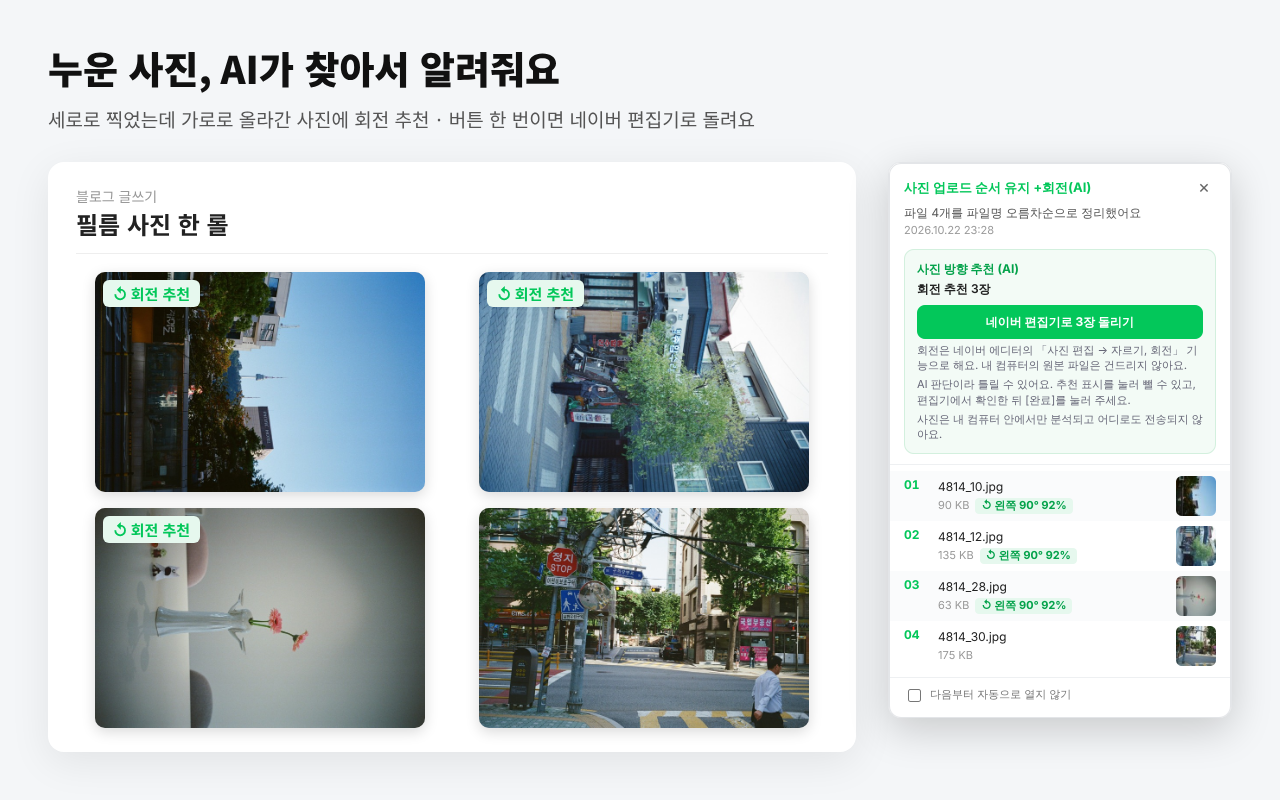
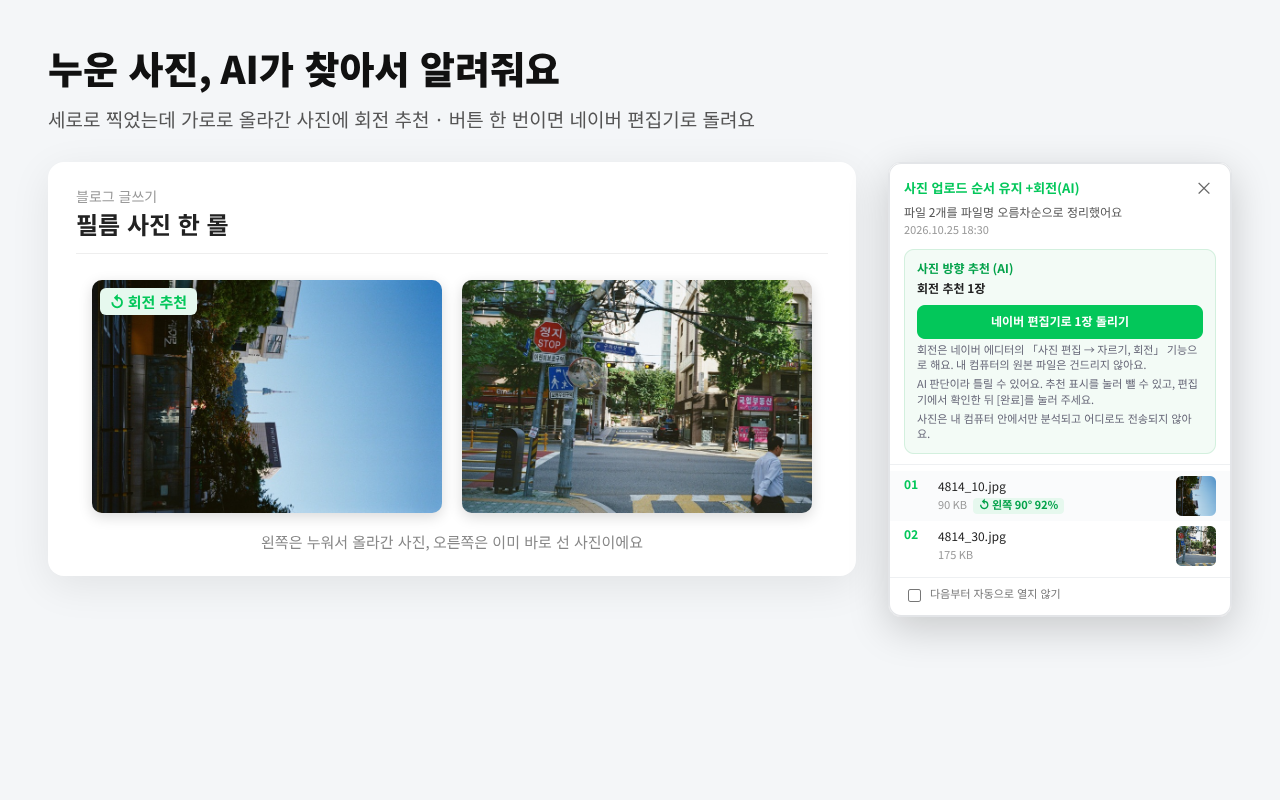
스토어 이미지: 예시 사진 4814_12·28 제외(10·30만 사용), 결과 목록을 확장 CSS로 다시 그림
Claude-Session: https://claude.ai/code/session_01QBboerzd2zjP8gfp9oGJJR

diff --git a/05_디자인_제작스크립트/v1.4/store-images-render-v1.4.js b/05_디자인_제작스크립트/v1.4/store-images-render-v1.4.js
@@ -1,5 +1,6 @@
 // v1.4.0 스토어 이미지 생성 (정렬 + 사진 방향 추천 AI + 네이버 카페 지원)
-// 필요한 파일: cap-panel.png(실제 결과 목록 캡처), cap-banner.png(실제 회전 완료 배너), 필름 사진 4814_10/12/28/30.jpg
+// 필요한 파일: 필름 사진 4814_10.jpg(누운 사진)·4814_30.jpg(바로 선 사진), 확장 소스(sorter.js의 PANEL_CSS로 결과 목록을 그림)
+// v1.4.0: 예시 사진을 2장(10·30)만 쓰도록 변경, 결과 목록은 실제 확장 CSS로 다시 그림
 // 실행: EXT=<확장 소스 폴더> node store-images-render-v1.4.js
 const { chromium } = require(process.env.PW || 'playwright');
 const fs = require('fs');
@@ -13,8 +14,8 @@ const thumb = (n, i, w=150) => `<div style="width:${w}px;height:${Math.round(w*0
   <div style="position:absolute;left:8px;bottom:6px;background:rgba(0,0,0,.6);color:#fff;font-size:${w>120?13:11}px;padding:2px 7px;border-radius:5px">${n}</div></div>`;
 const toast = (txt) => `<div style="display:inline-block;background:rgba(30,30,30,.92);color:#fff;padding:12px 20px;border-radius:10px;font-size:17px;box-shadow:0 6px 20px rgba(0,0,0,.25);white-space:nowrap"><b style="color:${G}">${NAME_SHORT}</b>: ${txt}</div>`;
 const sorted = ['IMG_1.jpg','IMG_2.jpg','IMG_3.jpg','IMG_4.jpg','IMG_5.jpg','IMG_10.jpg'];
-// 필름 사진: 10·12·28은 누워 있음(왼쪽 90° 돌리면 바로 섬), 30은 바로 선 사진
-const film = { s10: uri('4814_10.jpg'), s12: uri('4814_12.jpg'), s28: uri('4814_28.jpg'), u30: uri('4814_30.jpg') };
+// 필름 사진: 10은 누워 있음(왼쪽 90° 돌리면 바로 섬), 30은 바로 선 사진
+const film = { s10: uri('4814_10.jpg'), u30: uri('4814_30.jpg') };
 // 누운 사진을 바로 세운 모습 (가로 사진 영역 안에서 -90° 회전)
 const photo = (src, w, { rotate = false, tag = '' } = {}) => {
   const h = Math.round(w * 2 / 3);
@@ -43,11 +44,33 @@ const chip = (txt, color = G, bg = '#e6f8ee') => `<span style="display:inline-bl
   const ph = await pp.evaluate(() => Math.ceil(document.body.getBoundingClientRect().height));
   await pp.setViewportSize({ width: 300, height: ph });
   await pp.screenshot({ path: 'popup-v1.4.png' });
+  // 결과 목록: 확장의 실제 패널 CSS(sorter.js PANEL_CSS)로 2장짜리 목록을 그림
+  const src = fs.readFileSync(EXT + '/sorter.js', 'utf8');
+  const PANEL_CSS = src.match(/const PANEL_CSS = `([\s\S]*?)`;/)[1].replace(':host { all: initial; }', '')
+    .replace('position: fixed; top: 88px; right: 16px;', 'position: static;').replace('max-height: calc(100vh - 120px);', '');
+  const row = (n, name, size, rot, img) => `<li class="has-thumb"><span class="n">${n}</span><span class="name">${name}</span>
+    <span class="val">${size}${rot ? `<span class="rot">↺ ${rot}</span>` : ''}</span><img class="thumb" src="${img}"></li>`;
+  const panelHtml = `<style>${PANEL_CSS} body{margin:0;background:#fff} .wrap{font-family:"Noto Sans CJK KR",sans-serif !important}</style>
+   <div class="wrap"><header><div class="top"><span class="title">${NAME_SHORT}</span><button class="close">×</button></div>
+     <div class="meta">파일 2개를 파일명 오름차순으로 정리했어요</div><div class="sub">2026.10.25 18:30</div>
+     <div class="ai"><div class="ai-head">사진 방향 추천 (AI)</div><div class="ai-status">회전 추천 1장</div>
+       <button class="ai-go">네이버 편집기로 1장 돌리기</button>
+       <div class="ai-note">회전은 네이버 에디터의 「사진 편집 → 자르기, 회전」 기능으로 해요. 내 컴퓨터의 원본 파일은 건드리지 않아요.</div>
+       <div class="ai-note">AI 판단이라 틀릴 수 있어요. 추천 표시를 눌러 뺄 수 있고, 편집기에서 확인한 뒤 [완료]를 눌러 주세요.</div>
+       <div class="ai-note">사진은 내 컴퓨터 안에서만 분석되고 어디로도 전송되지 않아요.</div></div></header>
+     <ol>${row('01', '4814_10.jpg', '90 KB', '왼쪽 90° 92%', film.s10)}${row('02', '4814_30.jpg', '175 KB', '', film.u30)}</ol>
+     <footer><label><input type="checkbox"> 다음부터 자동으로 열지 않기</label></footer></div>`;
+  const pg = await b.newPage({ viewport: { width: 342, height: 800 }, deviceScaleFactor: 2 });
+  await pg.setContent(panelHtml);
+  await pg.waitForTimeout(200);
+  await (await pg.$('.wrap')).screenshot({ path: 'cap-panel-v1.4.png' });
+  await pg.close();
   const popupImg = (h) => `<img src="${uri('popup-v1.4.png')}" style="height:${h}px;border-radius:10px;box-shadow:0 12px 40px rgba(0,0,0,.18);border:1px solid #e5e5e5;background:#fff">`;
-  const panelImg = (w) => `<img src="${uri('cap-panel.png')}" style="width:${w}px;border-radius:12px;box-shadow:0 12px 40px rgba(0,0,0,.18);border:1px solid #e3e5e8;background:#fff;display:block">`;
+  const panelImg = (w) => `<img src="${uri('cap-panel-v1.4.png')}" style="width:${w}px;border-radius:12px;box-shadow:0 12px 40px rgba(0,0,0,.18);border:1px solid #e3e5e8;background:#fff;display:block">`;
   const bannerImg = (h) => `<img src="${uri('cap-banner.png')}" style="height:${h}px;border-radius:10px;box-shadow:0 8px 24px rgba(0,0,0,.25)">`;
   const icon = uri(EXT + '/icons/icon128.png');
   const recTag = `<div style="position:absolute;left:8px;top:8px">${chip('↺ 회전 추천')}</div>`;
+  const sameTag = `<div style="position:absolute;left:8px;top:8px">${chip('그대로 두기', '#555', '#f1f3f5')}</div>`;
   const okTag = `<div style="position:absolute;left:8px;top:8px">${chip('✓ 바로 섰어요', '#fff', G)}</div>`;
 
   const scenes = {
@@ -60,9 +83,10 @@ const chip = (txt, color = G, bg = '#e6f8ee') => `<span style="display:inline-bl
       <div style="flex:1;background:#fff;border-radius:16px;box-shadow:0 10px 40px rgba(0,0,0,.08);padding:24px 28px">
         <div style="font-size:14px;color:#999">블로그 글쓰기</div>
         <div style="font-size:24px;font-weight:700;color:#222;border-bottom:1px solid #eee;padding-bottom:12px">필름 사진 한 롤</div>
-        <div style="display:grid;grid-template-columns:repeat(2,1fr);gap:16px;margin-top:18px;justify-items:center">
-          ${photo(film.s10, 330, { tag: recTag })}${photo(film.s12, 330, { tag: recTag })}${photo(film.s28, 330, { tag: recTag })}${photo(film.u30, 330)}
+        <div style="display:flex;gap:20px;margin-top:26px;justify-content:center;align-items:center">
+          ${photo(film.s10, 350, { tag: recTag })}${photo(film.u30, 350)}
         </div>
+        <div style="font-size:15px;color:#888;margin-top:18px;text-align:center">왼쪽은 누워서 올라간 사진, 오른쪽은 이미 바로 선 사진이에요</div>
       </div>
       ${panelImg(342)}
     </div>
@@ -75,15 +99,15 @@ const chip = (txt, color = G, bg = '#e6f8ee') => `<span style="display:inline-bl
     <div style="display:flex;gap:36px;align-items:center;margin-top:40px">
       <div>
         <div style="font-size:18px;font-weight:700;color:#e5484d;margin-bottom:12px">올린 그대로</div>
-        <div style="border:2px solid #e5484d;border-radius:16px;padding:22px;display:flex;gap:16px">${photo(film.s10, 270)}${photo(film.s28, 270)}</div>
+        <div style="border:2px solid #e5484d;border-radius:16px;padding:22px;display:flex;gap:16px">${photo(film.s10, 230)}${photo(film.u30, 230)}</div>
       </div>
       <div style="font-size:54px;color:${G};font-weight:800;margin-top:30px">→</div>
       <div>
         <div style="font-size:18px;font-weight:700;color:${G};margin-bottom:12px">네이버 편집기로 회전한 뒤</div>
-        <div style="border:2px solid ${G};border-radius:16px;padding:22px;display:flex;gap:16px;align-items:center">${photo(film.s10, 270, { rotate: true, tag: okTag })}${photo(film.s28, 270, { rotate: true, tag: okTag })}</div>
+        <div style="border:2px solid ${G};border-radius:16px;padding:22px;display:flex;gap:16px;align-items:center">${photo(film.s10, 230, { rotate: true, tag: okTag })}${photo(film.u30, 230, { tag: sameTag })}</div>
       </div>
     </div>
-    <div style="margin-top:34px;background:#03c75a;color:#fff;padding:12px 22px;border-radius:10px;font-size:17px;font-weight:700;box-shadow:0 6px 18px rgba(0,0,0,.18)">AI 추천대로 3장을 돌렸어요 · 확인 후 [완료]를 눌러 주세요 · 원본 파일은 그대로예요</div>
+    <div style="margin-top:34px;background:#03c75a;color:#fff;padding:12px 22px;border-radius:10px;font-size:17px;font-weight:700;box-shadow:0 6px 18px rgba(0,0,0,.18)">AI 추천대로 1장을 돌렸어요 · 확인 후 [완료]를 눌러 주세요 · 원본 파일은 그대로예요</div>
     <div style="font-size:16px;color:#888;margin-top:16px">AI 판단이라 틀릴 수 있어요 · 추천 표시를 눌러 뺄 수 있고, 마지막 [완료]는 직접 눌러요</div>
    </div>`],
   // 3) 블로그·카페 순서 유지 (v1.4.0 NEW: 카페)
